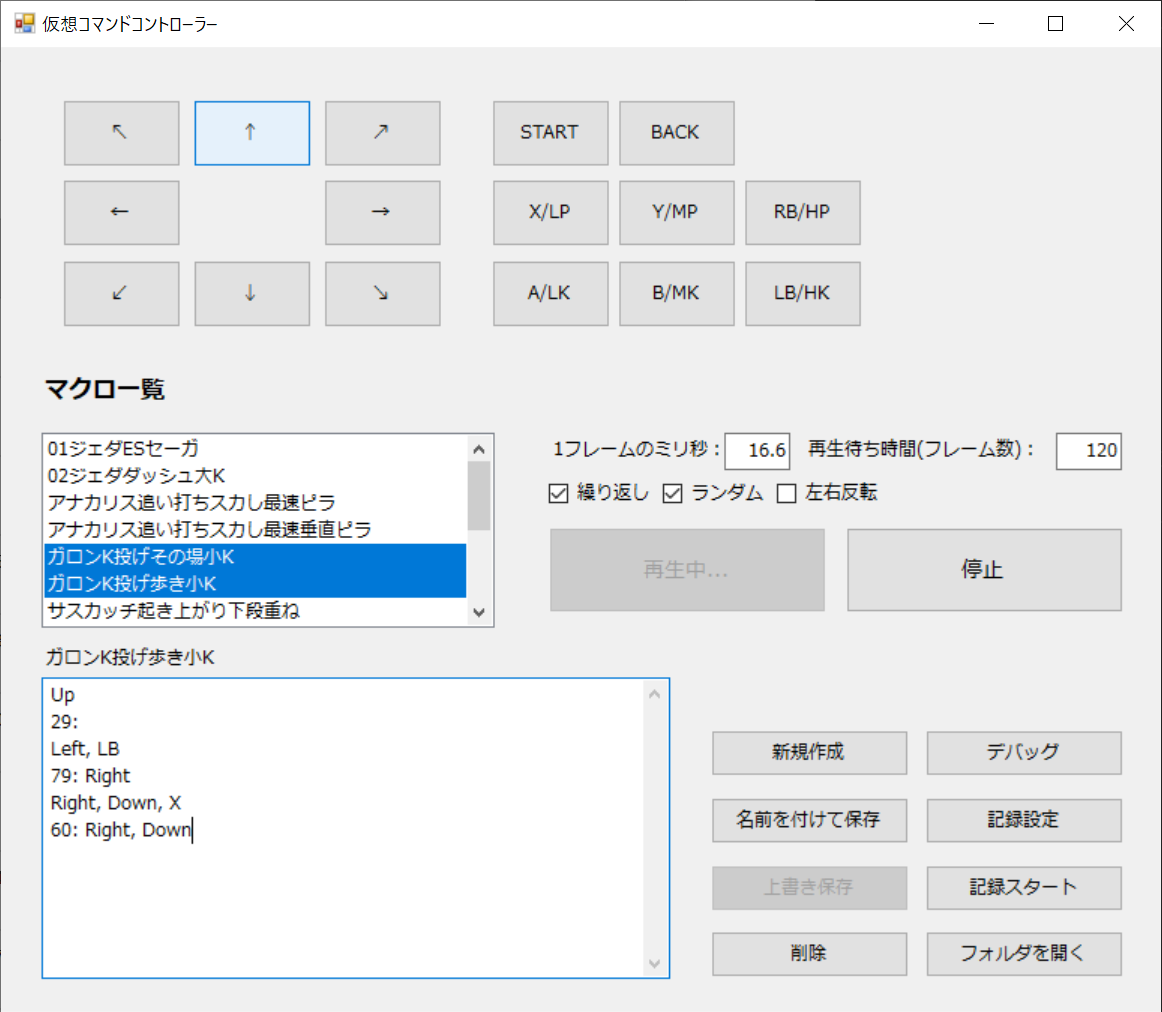
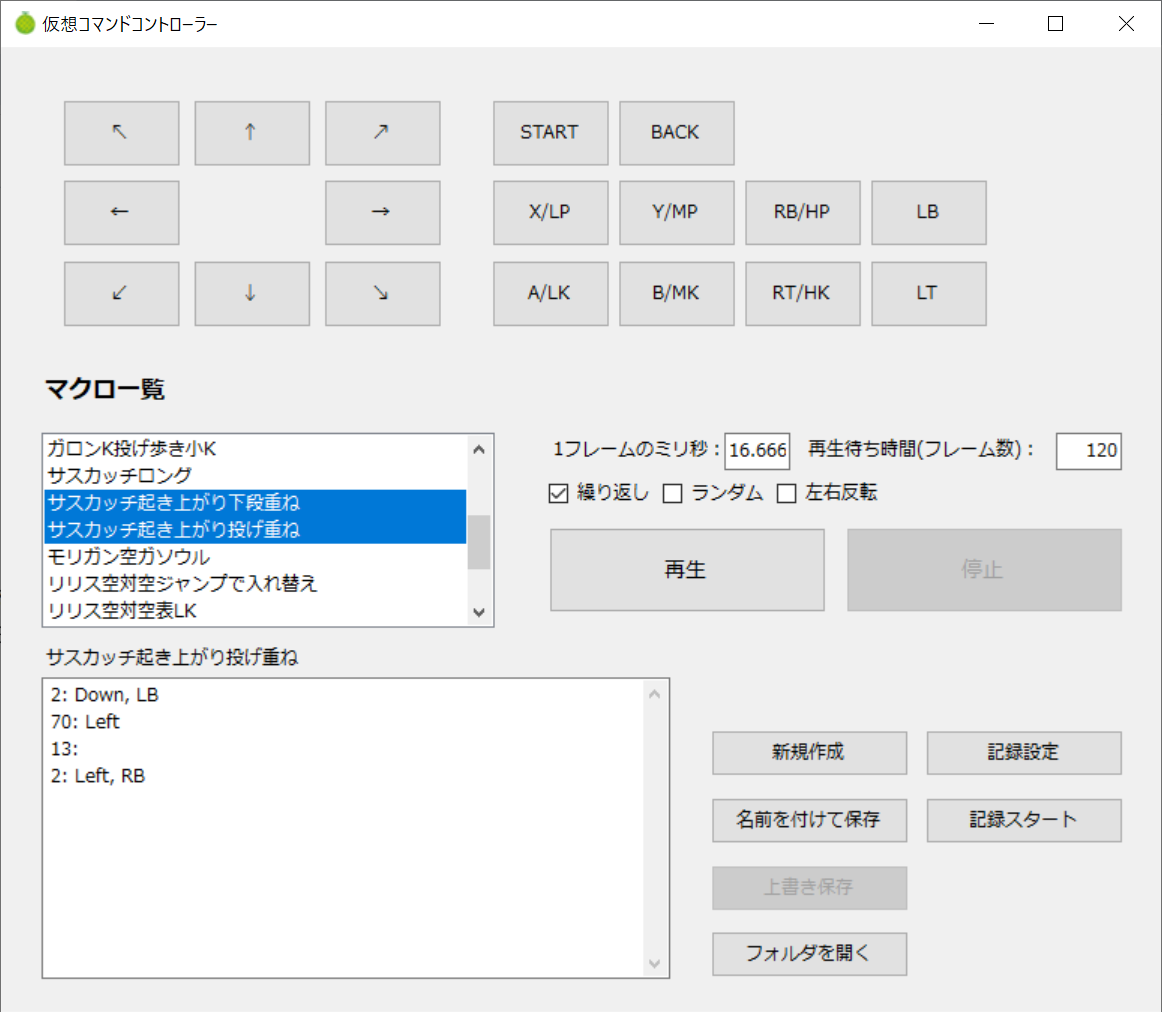
README更新

diff --git a/README.md b/README.md
@@ -56,14 +56,12 @@ Steam版のファイコレ等のトレモ機能を補完するために作成し
 3. このツールの画面上部のコントローラーUIで、ボタンや方向キーなどを操作するとゲーム内で正常に接続されたアナウンスが出ます。
 <img src="docs/images/setting_03_connect2.png" alt="接続" width="400">
 
-4. このツールの画面上部のコントローラーUIで、「BACK」ボタンを押して**2P側**の「CONTROLLER SETTINGS」を開きボタンを割り当ててください（**LT、RTボタンは使えないことに注意してください**）。
-<img src="docs/images/setting_04_key.png" alt="ボタン設定" width="400">
-※コントローラーUI通りに設定するとわかりやすいと思います
-
-
-5. あとは適当にマクロファイルを作成し、マクロを選択して「再生」ボタンを押すとマクロが実行されます。ランダム再生したい場合は複数選択し、「ランダム」にチェックを入れて「再生」
+4. あとは適当にマクロファイルを作成し、マクロを選択して「再生」ボタンを押すとマクロが実行されます。ランダム再生したい場合は複数選択し、「ランダム」にチェックを入れて「再生」
 ボタンを押してください。
 <img src="docs/images/setting_05_play.png" alt="再生" width="400">
+
+5. ボタンの割り当てはデフォルトで問題はないはずですが、必要があればこのツールの画面上部のコントローラーUIで、「BACK」ボタンを押して**2P側**の「CONTROLLER SETTINGS」を開きボタンを割り当ててください。
+<img src="docs/images/setting_04_key.png" alt="ボタン設定" width="400">
 
 ---
 
@@ -85,8 +83,8 @@ Steam版のファイコレ等のトレモ機能を補完するために作成し
   例: `3:UP,A` （3フレームUPとAボタンON）
 - 複数キーはカンマ区切り
 - キーは以下の形式で指定可能（大文字・小文字区別なし）
-  - ボタン: A, B, X, Y, LB, RB
-  - ボタン: LP, LK, MP, MK, HP, HKでも可です（A=LP, B=MP, X=HP, Y=LK, RB=MK, LB=HK）
+  - ボタン: A, B, X, Y, RT, LT, RB, LB
+  - ボタン: LP, LK, MP, MK, HP, HKでも可です（A=LP, B=MP, X=HP, Y=LK, RB=MK, RT=HK）
   - 方向: UP, DOWN, LEFT, RIGHT
 - 待ちフレームはキーを書かなければOK
   例: `5:` （5フレーム待機）
@@ -121,7 +119,7 @@ Steam版のファイコレ等のトレモ機能を補完するために作成し
 このマクロは、プレイヤー側が大キックを押したら起き上がりに昇竜を出すというものです（フレームは適当）。
 
 
-また、`TRIGGERWAIT:` でトリガー待機中にガードを入れておくこともできますので、ガード後に最速で技を出すといった使い方も可能です。
+また、`TRIGGERWAIT:` でトリガー待機中にしゃがみにしておくなど待機中のポーズなども指定できます。
 
 ```
 #TRIGGER: LP
@@ -155,10 +153,14 @@ Steam版のファイコレ等のトレモ機能を補完するために作成し
 ```
 
 TRIGGER機能の注意事項
-- 記録設定を完了していないとTRIGGER指定は無視されます
+- トリガーとなるキーを押してからマクロが再生されるまでに1F～3F程度の誤差が出る可能性があります
+- 記録設定を完了していないとTRIGGER指定は無視されます（警告も出ません）
 - TRIGGER指定ありのマクロとなしのマクロを同時に複数選択するとTRIGGER指定ありのマクロのみが再生されます
 - TRIGGER指定ありのマクロを同時に複数選択した状態で、同じトリガー条件が同時に成立するとランダムで再生されます
 - TRIGGERWAITが指定されているマクロを複数選択した場合、最初のTRIGGERWAITが優先されます
+- その他
+  - 位置リセットをトリガーにするとゲーム側の切り替え処理が終わるのを待つ必要があるのでマクロの先頭に待ちフレームを追加しましょう
+  - 攻撃ボタンをトリガーにしてガード後行動をさせる場合は、マクロの先頭にガードを入れましょう
 
 ---
 
@@ -184,6 +186,9 @@ A: 仮想コマンドコントローラーから1Pで接続してゲームを開
 ## 今後の予定（気が向いたらやります。やらない可能性もあり）
 
 - 入力の正確性を計測する機能（AG入力が正しい順序、フレームで入力できているかなどを計る）
+- マクロのフォルダ管理
+- マクロの共有場所の追加
+- マクロの制御文（ループ、他のマクロ再生など）
 
 ---
 
@@ -191,7 +196,6 @@ A: 仮想コマンドコントローラーから1Pで接続してゲームを開
 
 - ゲームやアプリによっては仮想コントローラー入力が認識されない場合があります。
 - ViGEmBusドライバが正しくインストールされていないと動作しません。
-- ドライバの技術上の制約でLS, RSボタンは利用できません。
 
 ---
 
